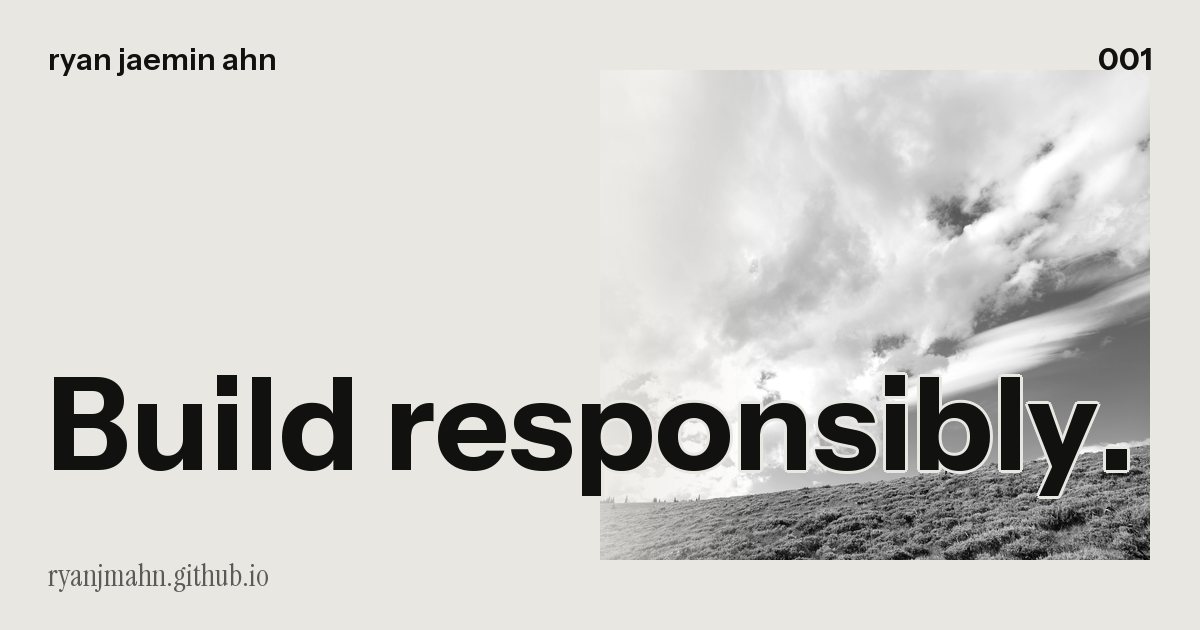
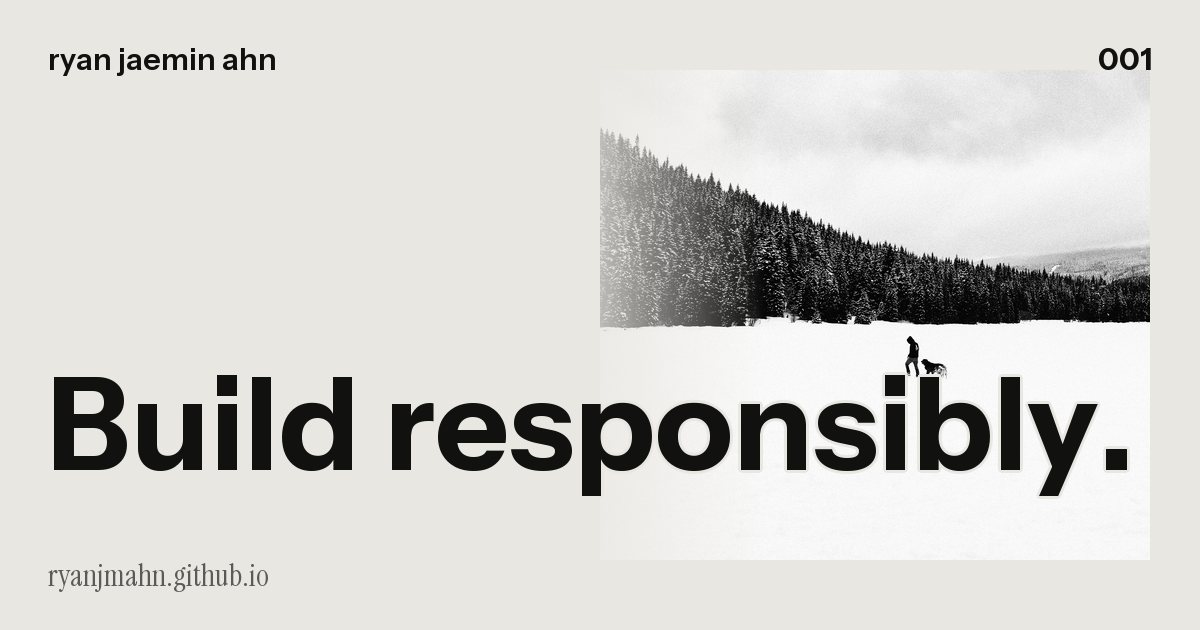
Share images follow the plate: ink ground for dark plates

Changed region(s): [[0.4933, 0.0905, 0.9558, 0.9048], [0.5858, 0.0905, 0.6475, 0.1508], [0.5858, 0.181, 0.6167, 0.2111]]

diff --git a/tools/make-og.py b/tools/make-og.py
@@ -3,9 +3,10 @@
 
   python3 tools/make-og.py
 
-Each page gets a small poster: paper ground, the page's plate photo (the -a
-variant for rotating plates) graded like the site, the headline in
-Instrument Sans straddling the photo's left edge, kicker + index on top.
+Each page gets a small poster: the page's plate photo (the -a variant for
+rotating plates) graded like the site on a paper or ink ground to match
+the plate, the headline in Instrument Sans straddling the photo's left
+edge, kicker + index on top.
 Writes assets/img/og/<page>.jpg, favicon.ico, favicon-32.png and
 apple-touch-icon.png.
 """
@@ -25,14 +26,14 @@ INK_2 = (91, 90, 86)
 FONTS = ROOT / "assets/fonts"
 
 PAGES = {
-    # page: (source image, crop centre x, crop centre y, kicker, index, headline)
-    "home": ("plate-001-a.jpg", 0.62, 0.45, "ryan jaemin ahn", "001", "Build responsibly."),
-    "built": ("plate-002-a.jpg", 0.5, 0.4, "probix labs", "002", "Reproducible."),
-    "initiatives": ("plate-003-a.jpg", 0.5, 0.5, "stemise · hackathons", "003", "Reach."),
-    "research": ("plate-005-a.jpg", 0.5, 0.5, "research", "005", "PDAC."),
-    "cv": ("plate-006.jpg", 0.5, 0.35, "roles & projects", "006", "cv."),
-    "contact": ("plate-008.jpg", 0.5, 0.5, "say hello", "008", "Reach out."),
-    "diary": ("plate-009.jpg", 0.5, 0.5, "entries", "009", "Diary."),
+    # page: (source image, crop centre x, crop centre y, kicker, index, headline, dark plate[, zoom])
+    "home": ("plate-001-a.jpg", 0.15, 0.8, "ryan jaemin ahn", "001", "Build responsibly.", False, 1.4),
+    "built": ("plate-002-a.jpg", 0.5, 0.5, "probix labs", "002", "Reproducible.", True),
+    "initiatives": ("plate-003-a.jpg", 0.5, 0.6, "stemise · hackathons", "003", "Reach.", True),
+    "research": ("plate-005-a.jpg", 0.5, 0.5, "research", "005", "PDAC.", True),
+    "cv": ("plate-006.jpg", 0.5, 0.6, "roles & projects", "006", "cv.", True),
+    "contact": ("plate-008.jpg", 0.5, 0.5, "say hello", "008", "Reach out.", False),
+    "diary": ("plate-009.jpg", 0.5, 0.5, "entries", "009", "Diary.", False),
 }
 
 
@@ -43,30 +44,27 @@ def font(name, size, weight=None):
     return f
 
 
-def css_grade(img):
-    # what .grade-silver does on the page: contrast 1.22, brightness .95
-    return img.point(lambda v: max(0, min(255, round(((v / 255 - .5) * 1.22 + .5) * .95 * 255))))
-
-
 def poster(page, spec):
-    src, cx, cy, kicker, index, headline = spec
+    src, cx, cy, kicker, index, headline, dark, *rest = spec
+    zoom = rest[0] if rest else 1.0
+    ground, fg, halo, meta = (INK, PAPER, INK, PAPER) if dark else (PAPER, INK, PAPER, INK_2)
     W, H = 1200, 630
-    im = Image.new("RGB", (W, H), PAPER)
+    im = Image.new("RGB", (W, H), ground)
     # photo inset: right side, like the plates
     box = (600, 70, 1150, 560)
     bw, bh = box[2] - box[0], box[3] - box[1]
     photo = Image.open(ROOT / "assets/img/src" / src).convert("RGB")
-    photo = pi.crop(photo, cx, cy, 1.0, bw / bh)
-    photo = css_grade(pi.grade(photo)).resize((bw, bh), Image.Resampling.LANCZOS).convert("RGB")
+    photo = pi.crop(photo, cx, cy, zoom, bw / bh)
+    photo = pi.grade(photo).resize((bw, bh), Image.Resampling.LANCZOS).convert("RGB")
     # paper fade on the inset's left edge (the straddle scrim)
     fade = Image.linear_gradient("L").rotate(90).resize((bw, bh))
     fade = fade.point(lambda v: 255 if v > 255 * .30 else round(v / .30 * 0.8 + 255 * .2))
-    im.paste(Image.composite(photo, Image.new("RGB", (bw, bh), PAPER), ImageOps.invert(ImageOps.invert(fade))), box[:2])
+    im.paste(Image.composite(photo, Image.new("RGB", (bw, bh), ground), ImageOps.invert(ImageOps.invert(fade))), box[:2])
 
     d = ImageDraw.Draw(im)
-    d.text((48, 40), kicker, font=font("instrument-sans.woff2", 30, 600), fill=INK)
+    d.text((48, 40), kicker, font=font("instrument-sans.woff2", 30, 600), fill=fg)
     idx = font("instrument-sans.woff2", 30, 700)
-    d.text((W - 48, 40), index, font=idx, fill=INK, anchor="ra")
+    d.text((W - 48, 40), index, font=idx, fill=fg, anchor="ra")
     # headline, sized to fit, bottom-left, straddling the photo edge
     size = 132
     while size > 60:
@@ -75,9 +73,9 @@ def poster(page, spec):
             break
         size -= 4
     for dx, dy in ((-3, 0), (3, 0), (0, -3), (0, 3), (-2, -2), (2, 2), (-2, 2), (2, -2)):
-        d.text((48 + dx, 470 + dy), headline, font=hf, fill=PAPER, anchor="ls")
-    d.text((48, 470), headline, font=hf, fill=INK, anchor="ls")
-    d.text((48, H - 44), "ryanjmahn.github.io", font=font("instrument-serif.woff2", 30), fill=INK_2, anchor="ls")
+        d.text((48 + dx, 470 + dy), headline, font=hf, fill=halo, anchor="ls")
+    d.text((48, 470), headline, font=hf, fill=fg, anchor="ls")
+    d.text((48, H - 44), "ryanjmahn.github.io", font=font("instrument-serif.woff2", 30), fill=meta, anchor="ls")
     out = ROOT / "assets/img/og" / f"{page}.jpg"
     out.parent.mkdir(exist_ok=True)
     im.save(out, "JPEG", quality=84, progressive=True, optimize=True)
